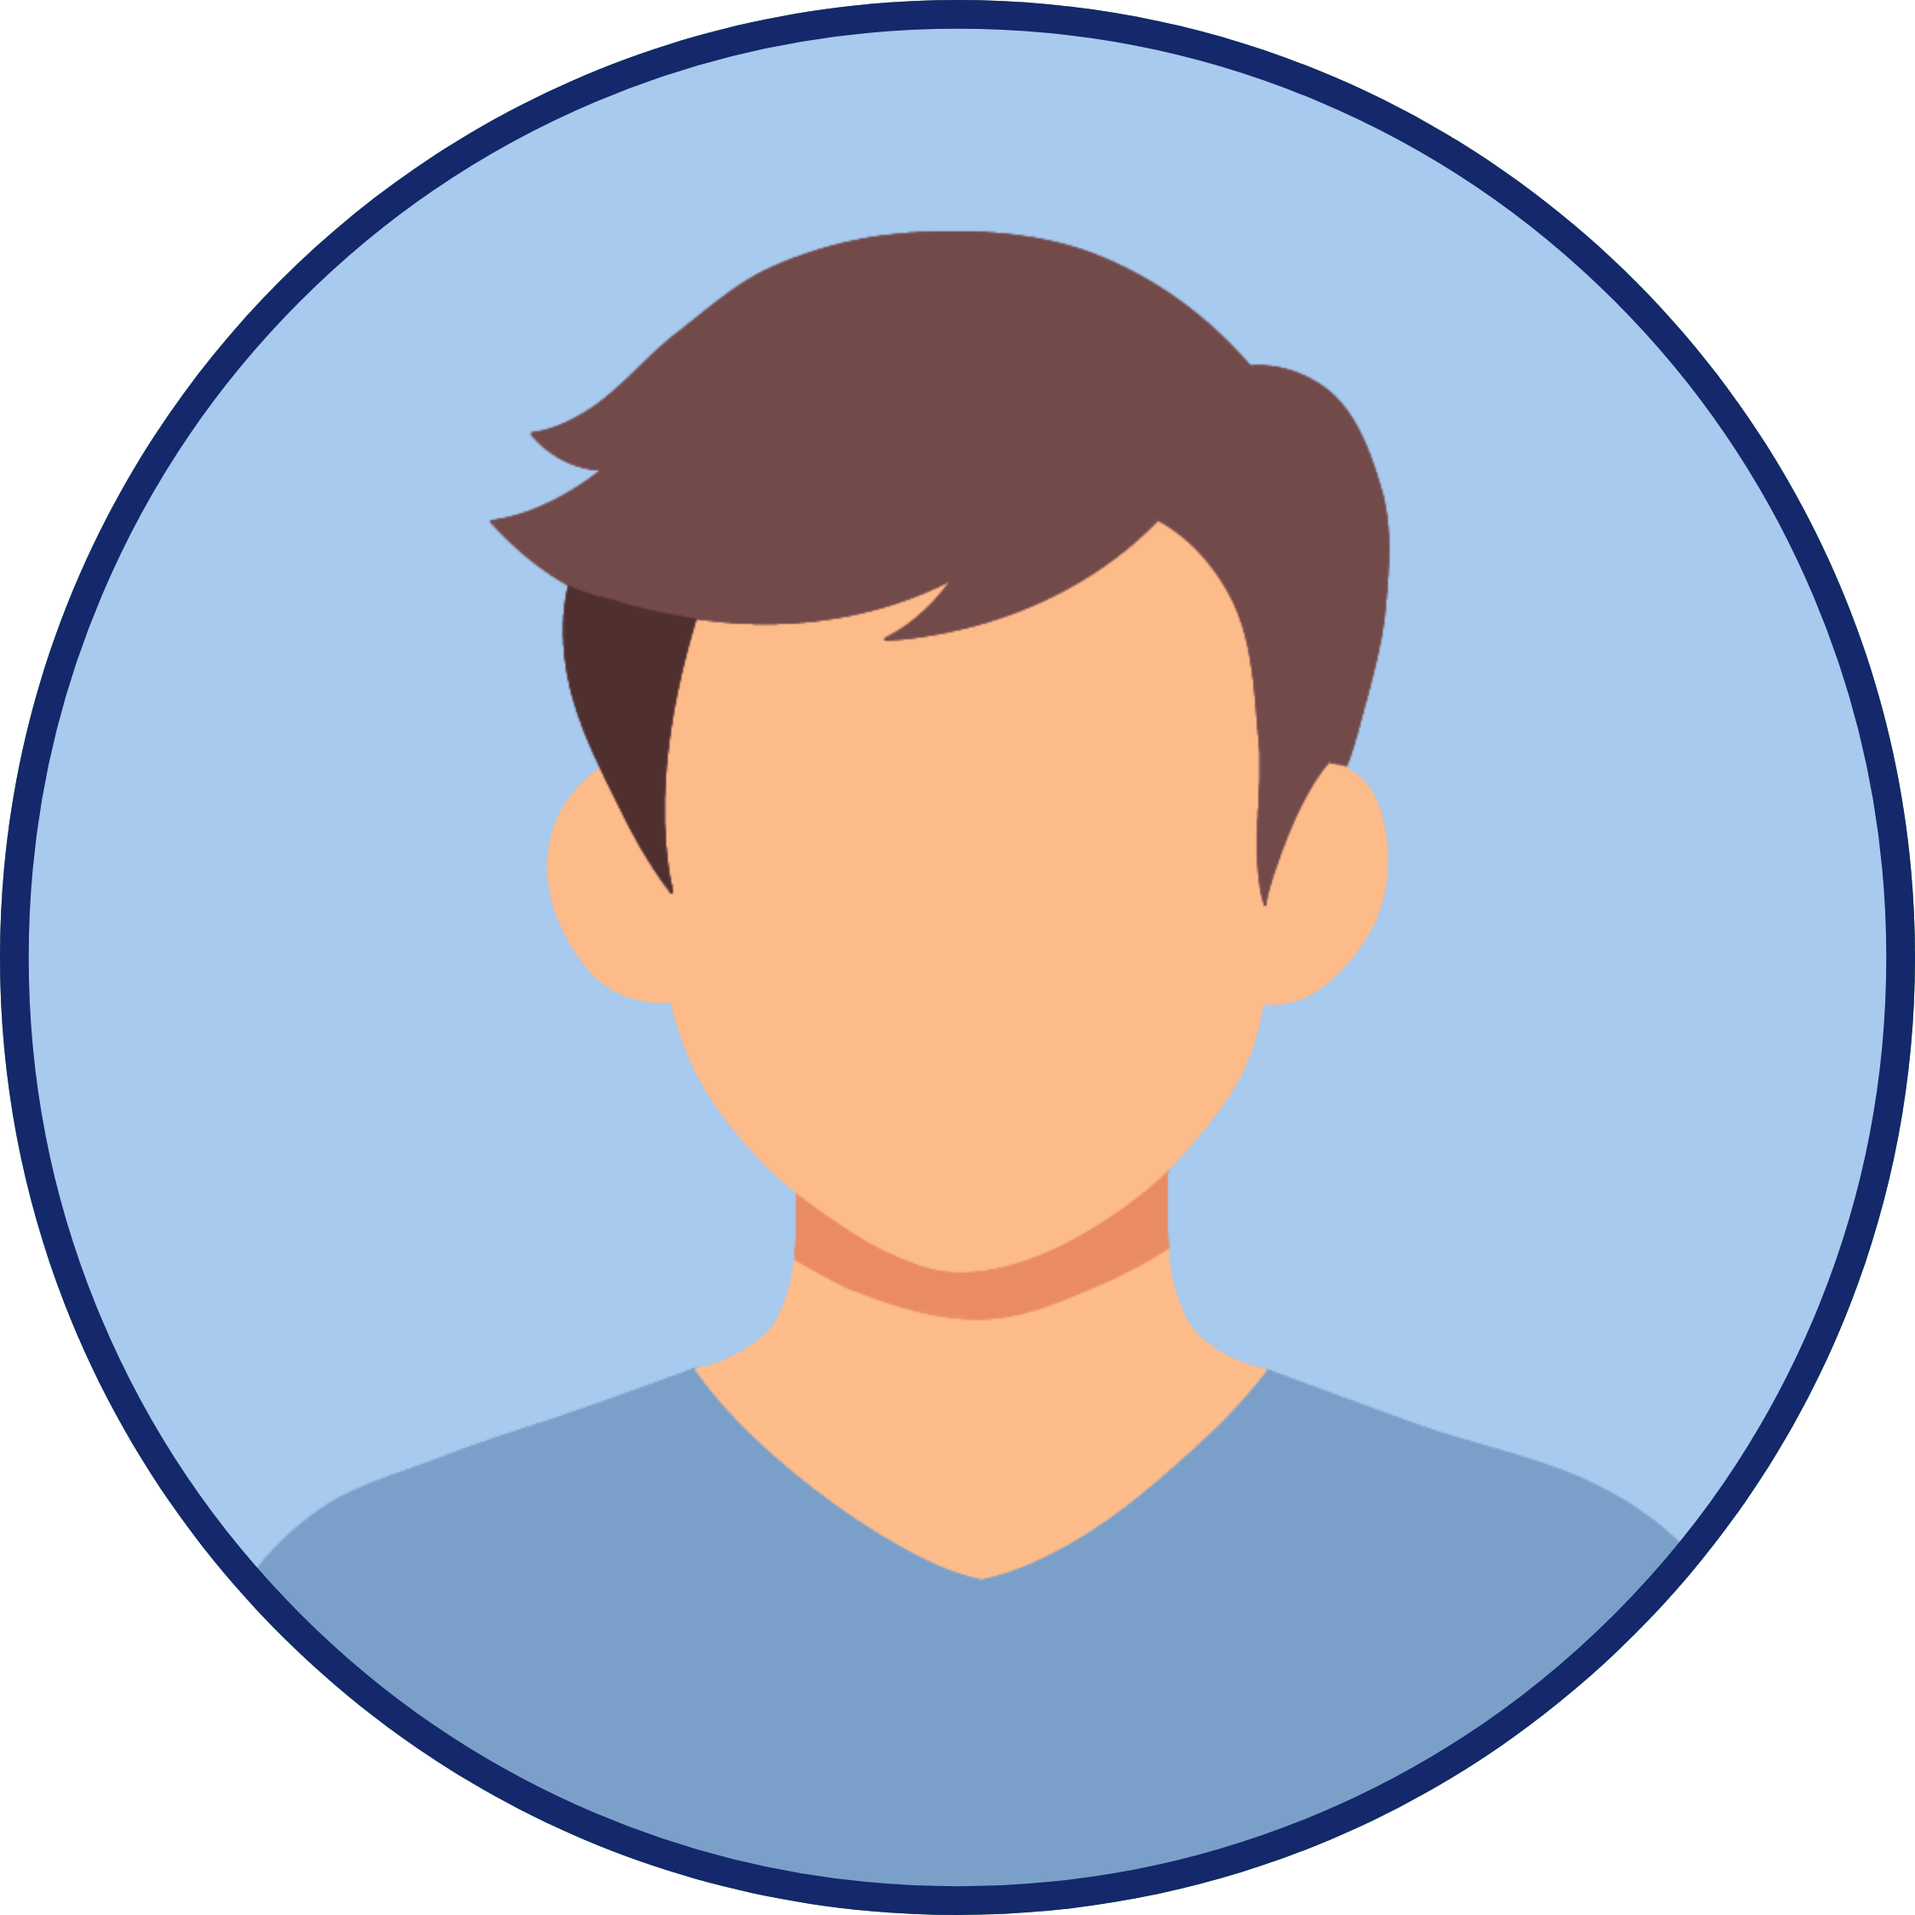
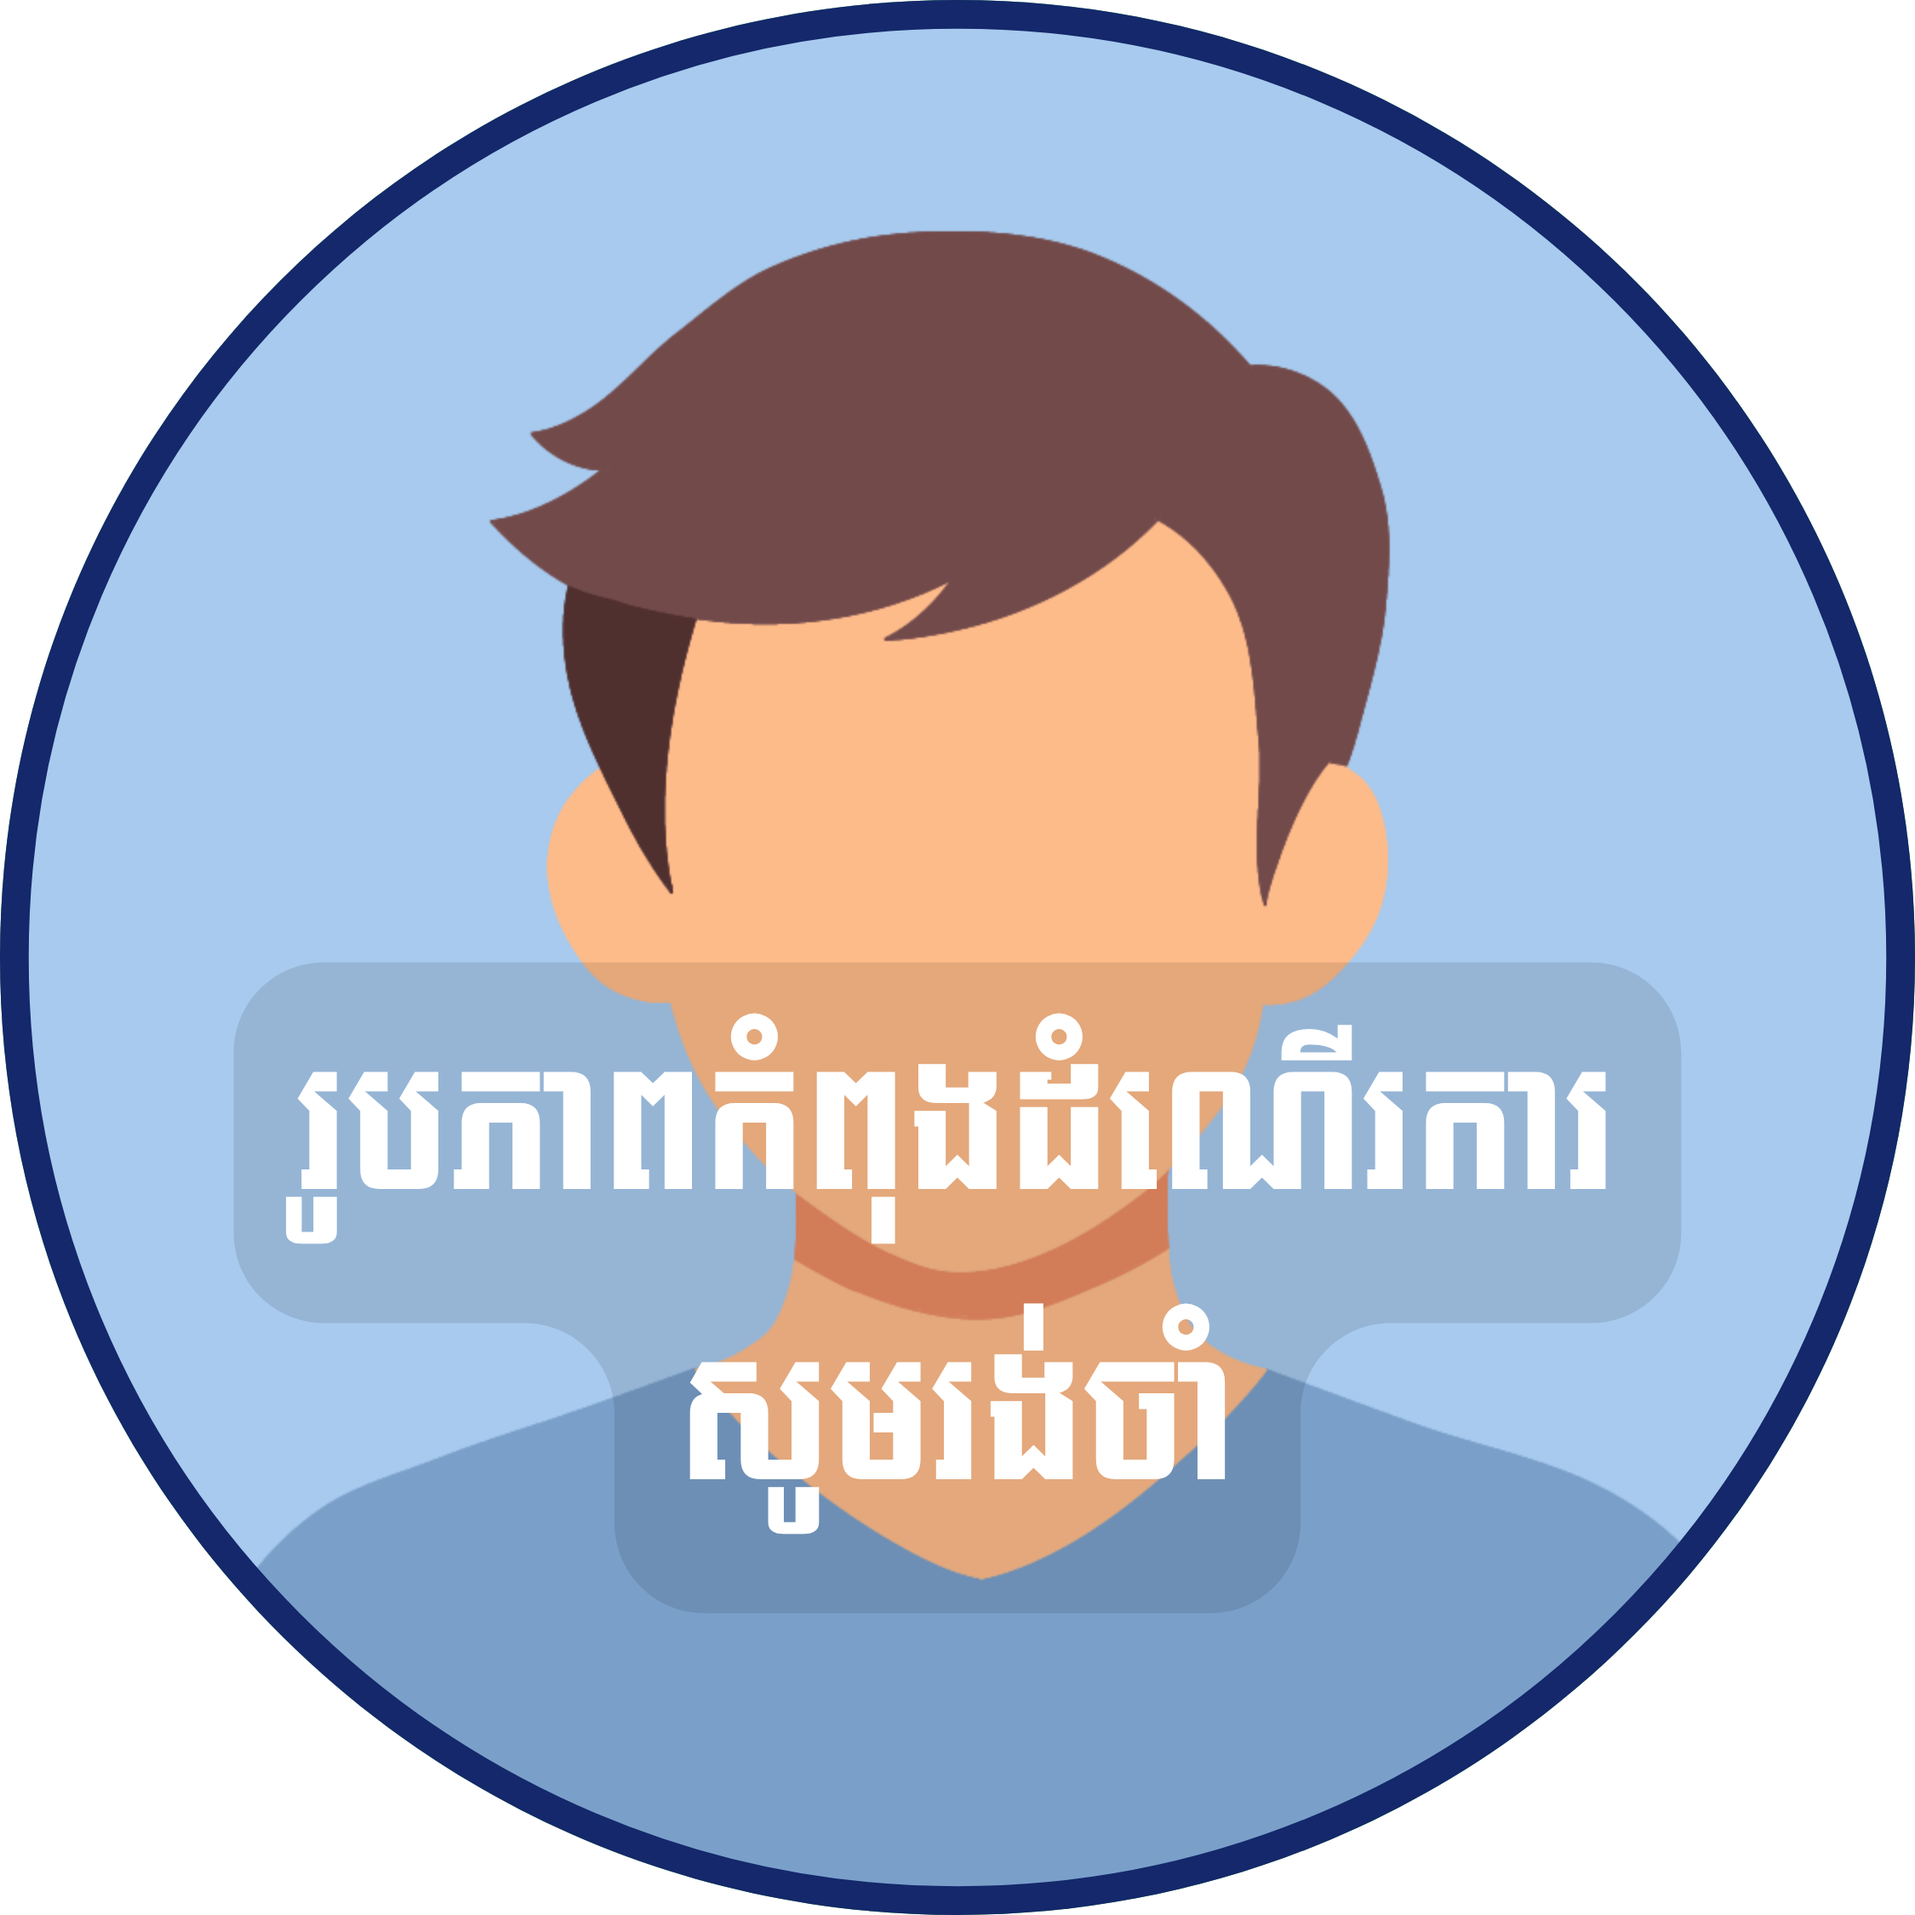
change profile image

Changed region(s): [[0.1244, 0.4978, 0.9022, 0.84]]

diff --git a/frontend/src/esc/2026/escProfile.jsx b/frontend/src/esc/2026/escProfile.jsx
@@ -16,30 +16,6 @@ const getProfileImage = (id) => {
   return `${CLOUDINARY_BASE}/f_auto,q_auto/ID_${id}`;
 };
 
-// Cache image as base64 in sessionStorage
-const getCachedImage = async (url) => {
-  const cacheKey = `img_cache_${url}`;
-  const cached = sessionStorage.getItem(cacheKey);
-  if (cached) return cached;
-
-  try {
-    const res = await fetch(url);
-    if (!res.ok) throw new Error("Failed");
-    const blob = await res.blob();
-    return new Promise((resolve) => {
-      const reader = new FileReader();
-      reader.onloadend = () => {
-        sessionStorage.setItem(cacheKey, reader.result);
-        resolve(reader.result);
-      };
-      reader.readAsDataURL(blob);
-    });
-  } catch {
-    return null;
-  }
-};
-
-
 const InfoField = ({ label, sublabel, value }) => {
   const displayValue = value && value !== "—" ? value : "មិនមានព័ត៌មាន";
   return (
@@ -60,7 +36,6 @@ export default function EscProfile() {
   const [profile, setProfile] = useState(null);
   const [loading, setLoading] = useState(true);
   const [error, setError] = useState(null);
-  const [imgError, setImgError] = useState(false);
   const [imageSrc, setImageSrc] = useState(profileImage);
 
   useEffect(() => {
@@ -114,11 +89,8 @@ export default function EscProfile() {
     // console.log("profile.id:", profile.id); // check exact value
     // console.log("image url:", getProfileImage(profile.id)); // check full URL
 
-    const rawSrc = profile.photo || getProfileImage(profile.id);
-
-    getCachedImage(rawSrc).then((src) => {
-      setImageSrc(src || profileImage);
-    });
+    const src = profile.photo || getProfileImage(profile.id);
+    setImageSrc(src);
   }, [profile]);
 
   if (loading) {
@@ -246,7 +218,9 @@ export default function EscProfile() {
               <img
                 src={imageSrc}
                 alt={profile.name_khmer || profile.name_latin || "Profile"}
-                onError={() => setImgError(true)}
+                loading="eager"
+                decoding="async"
+                onError={() => setImageSrc(profileImage)}
               />
             </div>
           </div>

diff --git a/frontend/src/esc/2026/escList.jsx b/frontend/src/esc/2026/escList.jsx
@@ -39,7 +39,7 @@ export default function EscList() {
       })
       .catch((err) => {
         console.error(err);
-        setError("មិនអាចទាញទិន្នន័យបានទេ 😔");
+        setError("រកមិនឃើញព័ត៌មានទេ ធ្វើមិចទៅ 😔");
         setLoading(false);
       });
   }, []);
@@ -246,7 +246,7 @@ export default function EscList() {
                 })
               ) : (
                 <div className="no-results">
-                  រកមិនឃើញ "{searchTerm}" ទេ 😔
+                  រកមិនឃើញ "{searchTerm}" ទេ ធ្វើមិចទៅ 😔
                 </div>
               )}
             </div>

diff --git a/frontend/src/esc/2026/escAllurl.jsx b/frontend/src/esc/2026/escAllurl.jsx
@@ -18,7 +18,7 @@ export default function AllTempUrls() {
       })
       .catch((err) => {
         console.error(err);
-        setError("មិនអាចទាញទិន្នន័យបានទេ 😔");
+        setError("រកមិនឃើញព័ត៌មានទេ ធ្វើមិចទៅ 😔");
         setLoading(false);
       });
   }, []);
